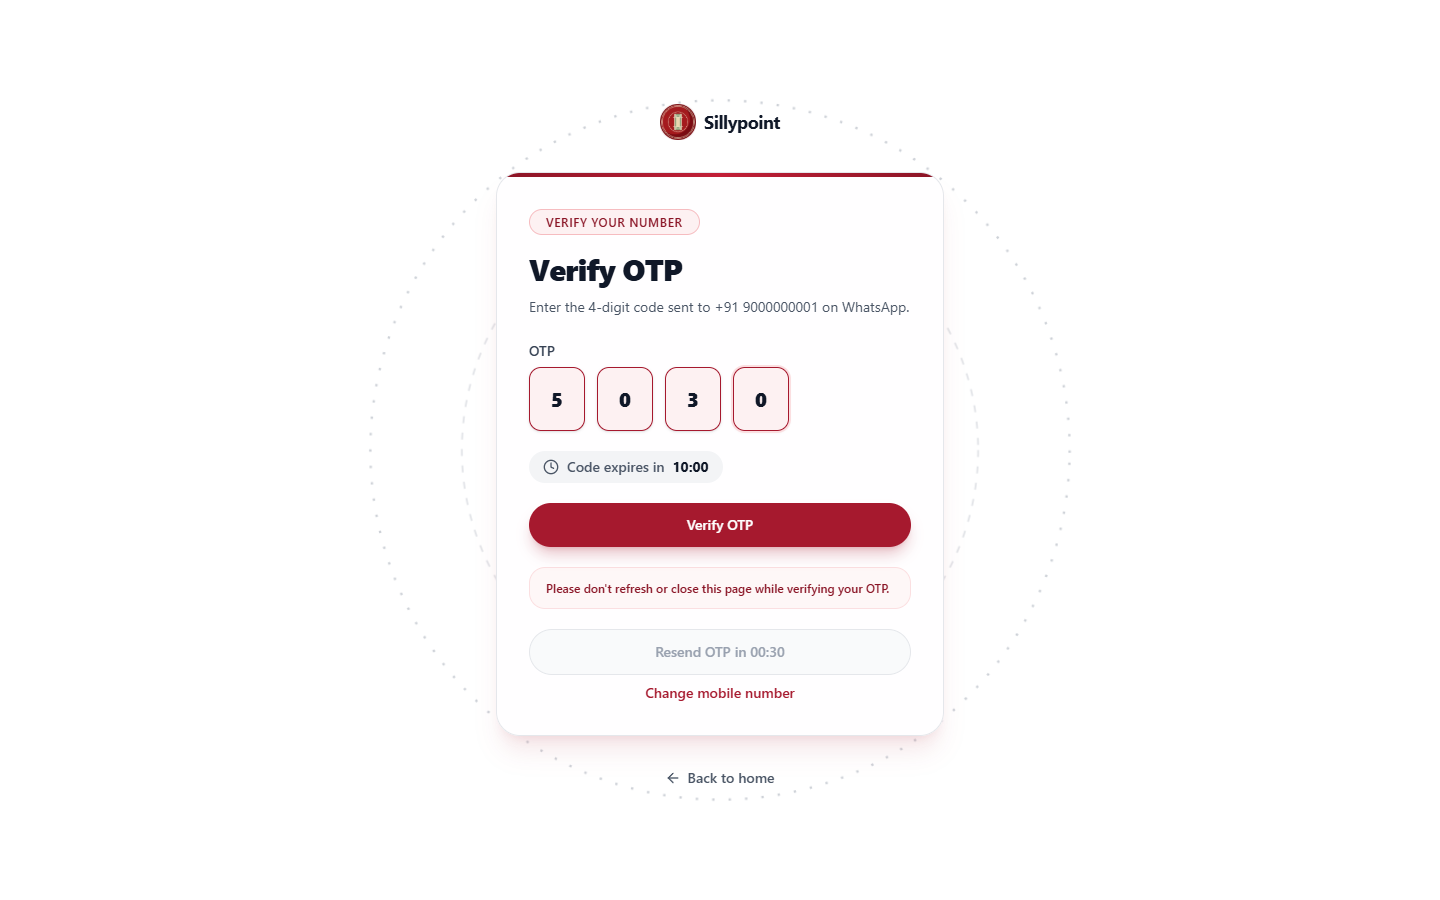
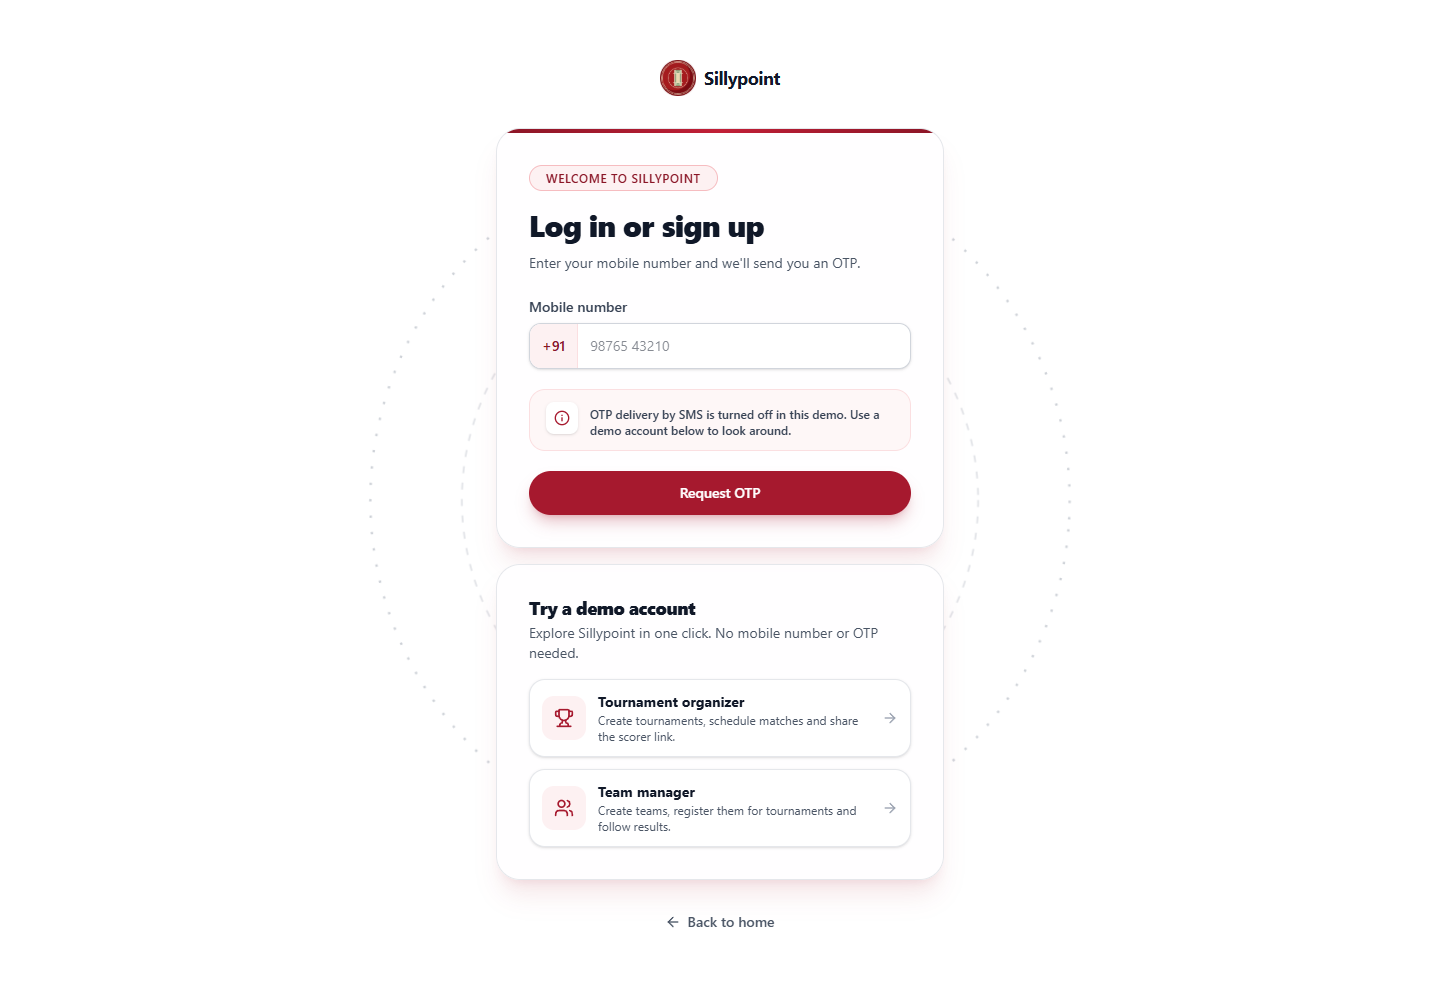
Add demo account logins to the login page

Changed region(s): [[0.3438, 0.4044, 0.6562, 0.9333], [0.3438, 0.0622, 0.6562, 0.3733], [0.3438, 0.8089, 0.375, 0.84]]

diff --git a/src/components/DemoLoginPanel.jsx b/src/components/DemoLoginPanel.jsx
@@ -1,0 +1,62 @@
+import { ArrowRight, Loader2, Trophy, Users } from 'lucide-react'
+import { useDemoLogin } from '../hooks/useDemoLogin'
+import { cardClass, cardHoverClass, headingClass, iconTileClass } from '../lib/premiumStyles'
+
+const DEMO_ACCOUNTS = [
+  {
+    role: 'organizer',
+    title: 'Tournament organizer',
+    description: 'Create tournaments, schedule matches and share the scorer link.',
+    Icon: Trophy,
+  },
+  {
+    role: 'manager',
+    title: 'Team manager',
+    description: 'Create teams, register them for tournaments and follow results.',
+    Icon: Users,
+  },
+]
+
+function DemoLoginPanel() {
+  const { login, pendingRole } = useDemoLogin()
+
+  return (
+    <section aria-labelledby="demo-accounts-heading">
+      <h2 id="demo-accounts-heading" className={`text-lg ${headingClass}`}>
+        Try a demo account
+      </h2>
+      <p className="mt-1 text-sm text-gray-600">Explore Sillypoint in one click. No mobile number or OTP needed.</p>
+
+      <div className="mt-4 space-y-3">
+        {DEMO_ACCOUNTS.map(({ role, title, description, Icon }) => {
+          const pending = pendingRole === role
+
+          return (
+            <button
+              key={role}
+              type="button"
+              onClick={() => login(role)}
+              disabled={Boolean(pendingRole)}
+              className={`group flex w-full items-center gap-3 p-3 text-left ${cardClass} ${cardHoverClass} disabled:cursor-not-allowed disabled:opacity-60 disabled:hover:translate-y-0 disabled:hover:border-gray-200 disabled:hover:shadow-sm motion-reduce:transition-none motion-reduce:hover:translate-y-0`}
+            >
+              <span className={iconTileClass}>
+                <Icon className="h-5 w-5" aria-hidden="true" />
+              </span>
+              <span className="min-w-0 flex-1">
+                <span className="block text-sm font-bold text-gray-900">{title}</span>
+                <span className="block text-xs text-gray-600">{description}</span>
+              </span>
+              {pending ? (
+                <Loader2 className="h-4 w-4 shrink-0 animate-spin text-red-600 motion-reduce:animate-none" aria-label="Logging in" />
+              ) : (
+                <ArrowRight className="h-4 w-4 shrink-0 text-gray-400 transition group-hover:text-red-600" aria-hidden="true" />
+              )}
+            </button>
+          )
+        })}
+      </div>
+    </section>
+  )
+}
+
+export default DemoLoginPanel

diff --git a/src/pages/MobileEntryPage.jsx b/src/pages/MobileEntryPage.jsx
@@ -1,13 +1,14 @@
-import { MessageCircle } from 'lucide-react'
+import { Info } from 'lucide-react'
 import { useState } from 'react'
 import { useNavigate } from 'react-router-dom'
 import { useForm } from 'react-hook-form'
 import AuthLayout from '../components/AuthLayout'
+import DemoLoginPanel from '../components/DemoLoginPanel'
 import { getErrorMessage } from '../lib/api'
 import { requestOtp } from '../lib/authApi'
 import { fieldAddonClass, fieldGroupClass, labelClass } from '../lib/formStyles'
 import { notifyError } from '../lib/notify'
-import { primaryButtonClass } from '../lib/premiumStyles'
+import { infoNoteClass, primaryButtonClass } from '../lib/premiumStyles'
 import { useAuthStore } from '../store/authStore'
 import { mobileValidation } from '../lib/validators'
 
@@ -41,6 +42,7 @@ function MobileEntryPage() {
       eyebrow="Welcome to Sillypoint"
       title="Log in or sign up"
       subtitle="Enter your mobile number and we'll send you an OTP."
+      footer={<DemoLoginPanel />}
     >
       <form onSubmit={handleSubmit(onSubmit)} className="space-y-5" noValidate>
         <div>
@@ -64,12 +66,12 @@ function MobileEntryPage() {
           )}
         </div>
 
-        <div className="flex items-start gap-3 rounded-2xl border border-red-100 bg-red-50/60 px-4 py-3">
+        <div className={`flex items-start gap-3 ${infoNoteClass}`}>
           <span className="flex h-8 w-8 shrink-0 items-center justify-center rounded-lg bg-white text-red-600 shadow-sm">
-            <MessageCircle className="h-4 w-4" aria-hidden="true" />
+            <Info className="h-4 w-4" aria-hidden="true" />
           </span>
           <p className="pt-1 text-xs font-medium text-gray-700">
-            Your OTP and tournament notifications will be sent to this mobile number on WhatsApp.
+            OTP delivery by SMS is turned off in this demo. Use a demo account below to look around.
           </p>
         </div>
 

diff --git a/src/components/AuthLayout.jsx b/src/components/AuthLayout.jsx
@@ -3,7 +3,10 @@ import { Link } from 'react-router-dom'
 import logo from '../assets/app_logo.png'
 import { eyebrowClass, headingClass } from '../lib/premiumStyles'
 
-function AuthLayout({ eyebrow, title, subtitle, children }) {
+const cardShellClass =
+  'relative w-full max-w-sm overflow-hidden rounded-3xl border border-gray-200 bg-white/90 shadow-xl shadow-red-600/10 backdrop-blur sm:max-w-md'
+
+function AuthLayout({ eyebrow, title, subtitle, children, footer }) {
   return (
     <div className="relative flex min-h-screen flex-col items-center justify-center overflow-hidden bg-white px-5 py-10 sm:px-6">
       <svg
@@ -22,7 +25,7 @@ function AuthLayout({ eyebrow, title, subtitle, children }) {
         <span className="text-lg font-bold tracking-tight text-gray-900">Sillypoint</span>
       </Link>
 
-      <div className="relative w-full max-w-sm overflow-hidden rounded-3xl border border-gray-200 bg-white/90 shadow-xl shadow-red-600/10 backdrop-blur sm:max-w-md">
+      <div className={cardShellClass}>
         <div className="h-1 bg-gradient-to-r from-red-700 via-red-500 to-red-700" />
         <div className="p-6 sm:p-8">
           {eyebrow && <span className={eyebrowClass}>{eyebrow}</span>}
@@ -31,6 +34,8 @@ function AuthLayout({ eyebrow, title, subtitle, children }) {
           <div className="mt-6">{children}</div>
         </div>
       </div>
+
+      {footer && <div className={`${cardShellClass} mt-4 p-6 sm:p-8`}>{footer}</div>}
 
       <Link
         to="/"

diff --git a/src/hooks/useDemoLogin.js b/src/hooks/useDemoLogin.js
@@ -1,0 +1,29 @@
+import { useState } from 'react'
+import { useNavigate } from 'react-router-dom'
+import { getErrorMessage } from '../lib/api'
+import { demoLogin } from '../lib/authApi'
+import { notifyError } from '../lib/notify'
+import { setSessionFlag } from '../lib/sessionFlag'
+import { useAuthStore } from '../store/authStore'
+
+export function useDemoLogin() {
+  const navigate = useNavigate()
+  const setSession = useAuthStore((state) => state.setSession)
+  const [pendingRole, setPendingRole] = useState(null)
+
+  const login = async (role) => {
+    setPendingRole(role)
+
+    try {
+      const data = await demoLogin(role)
+      setSessionFlag()
+      setSession({ user: data.user, accessToken: data.accessToken })
+      navigate('/home', { replace: true })
+    } catch (error) {
+      notifyError(getErrorMessage(error))
+      setPendingRole(null)
+    }
+  }
+
+  return { login, pendingRole }
+}

diff --git a/src/lib/authApi.js b/src/lib/authApi.js
@@ -14,3 +14,6 @@ export const refreshSession = refreshAccessToken
 export const fetchMe = () => api.get('/auth/me').then((response) => response.data)
 
 export const logoutRequest = () => api.post('/auth/logout').then((response) => response.data)
+
+export const demoLogin = (role) =>
+  api.post('/auth/demo-login', { role }).then((response) => response.data)

diff --git a/src/lib/api.js b/src/lib/api.js
@@ -11,6 +11,7 @@ const AUTH_PATHS = [
   '/auth/request-otp',
   '/auth/verify-otp',
   '/auth/resend-otp',
+  '/auth/demo-login',
   '/auth/refresh',
   '/auth/logout',
   '/scorer/',

diff --git a/README.md b/README.md
@@ -11,6 +11,7 @@ Organizers create tournaments and schedule matches, scorers record every ball fr
 - **Ball-by-ball scoring**: a one-screen run pad with wides, no balls, byes, leg byes, overthrows, wickets, free hits, retirements, undo and Super Overs
 - **Live scorecards**: broadcast-style batting and bowling cards, fall of wickets and over-by-over charts that update while the match is played
 - **Points table**: standings calculated automatically with points, net run rate and recent form
+- **Demo accounts**: one-click Tournament organizer and Team manager logins, with no mobile number or OTP
 - **Passwordless login**: sign in with a mobile number and OTP
 
 ## Tech stack
@@ -43,6 +44,6 @@ npm run dev            # http://localhost:5173
 | --- | --- |
 | <img src="docs/screenshots/scoring.png" alt="Scoring screen" width="300" /> | ![Dashboard](docs/screenshots/dashboard.png) |
 
-| Create tournament | OTP login |
+| Create tournament | Login with demo accounts |
 | --- | --- |
-| ![Create tournament](docs/screenshots/create-tournament.png) | ![OTP login](docs/screenshots/login.png) |
+| ![Create tournament](docs/screenshots/create-tournament.png) | ![Login with demo accounts](docs/screenshots/login.png) |

diff --git a/CLAUDE.md b/CLAUDE.md
@@ -169,6 +169,8 @@ for the full recipe). The essentials:
 
 ## Auth
 
+**Demo accounts**: `/login` (`MobileEntryPage`) shows `DemoLoginPanel` (Tournament organizer / Team manager cards) in a second card below the mobile-number card, via `AuthLayout`'s optional `footer` prop; `useDemoLogin` calls `demoLogin(role)` (`POST /auth/demo-login`, in `AUTH_PATHS`), then `setSessionFlag` + `setSession` and goes to `/home`, like `VerifyOtpPage`. SMS is not wired up, so the OTP form carries a note that OTP delivery is off and points to the demo accounts below.
+
 Login and signup are the **same flow**, matching the backend: **mobile number + OTP only** — no
 email, no password, no PIN, ever.
 
